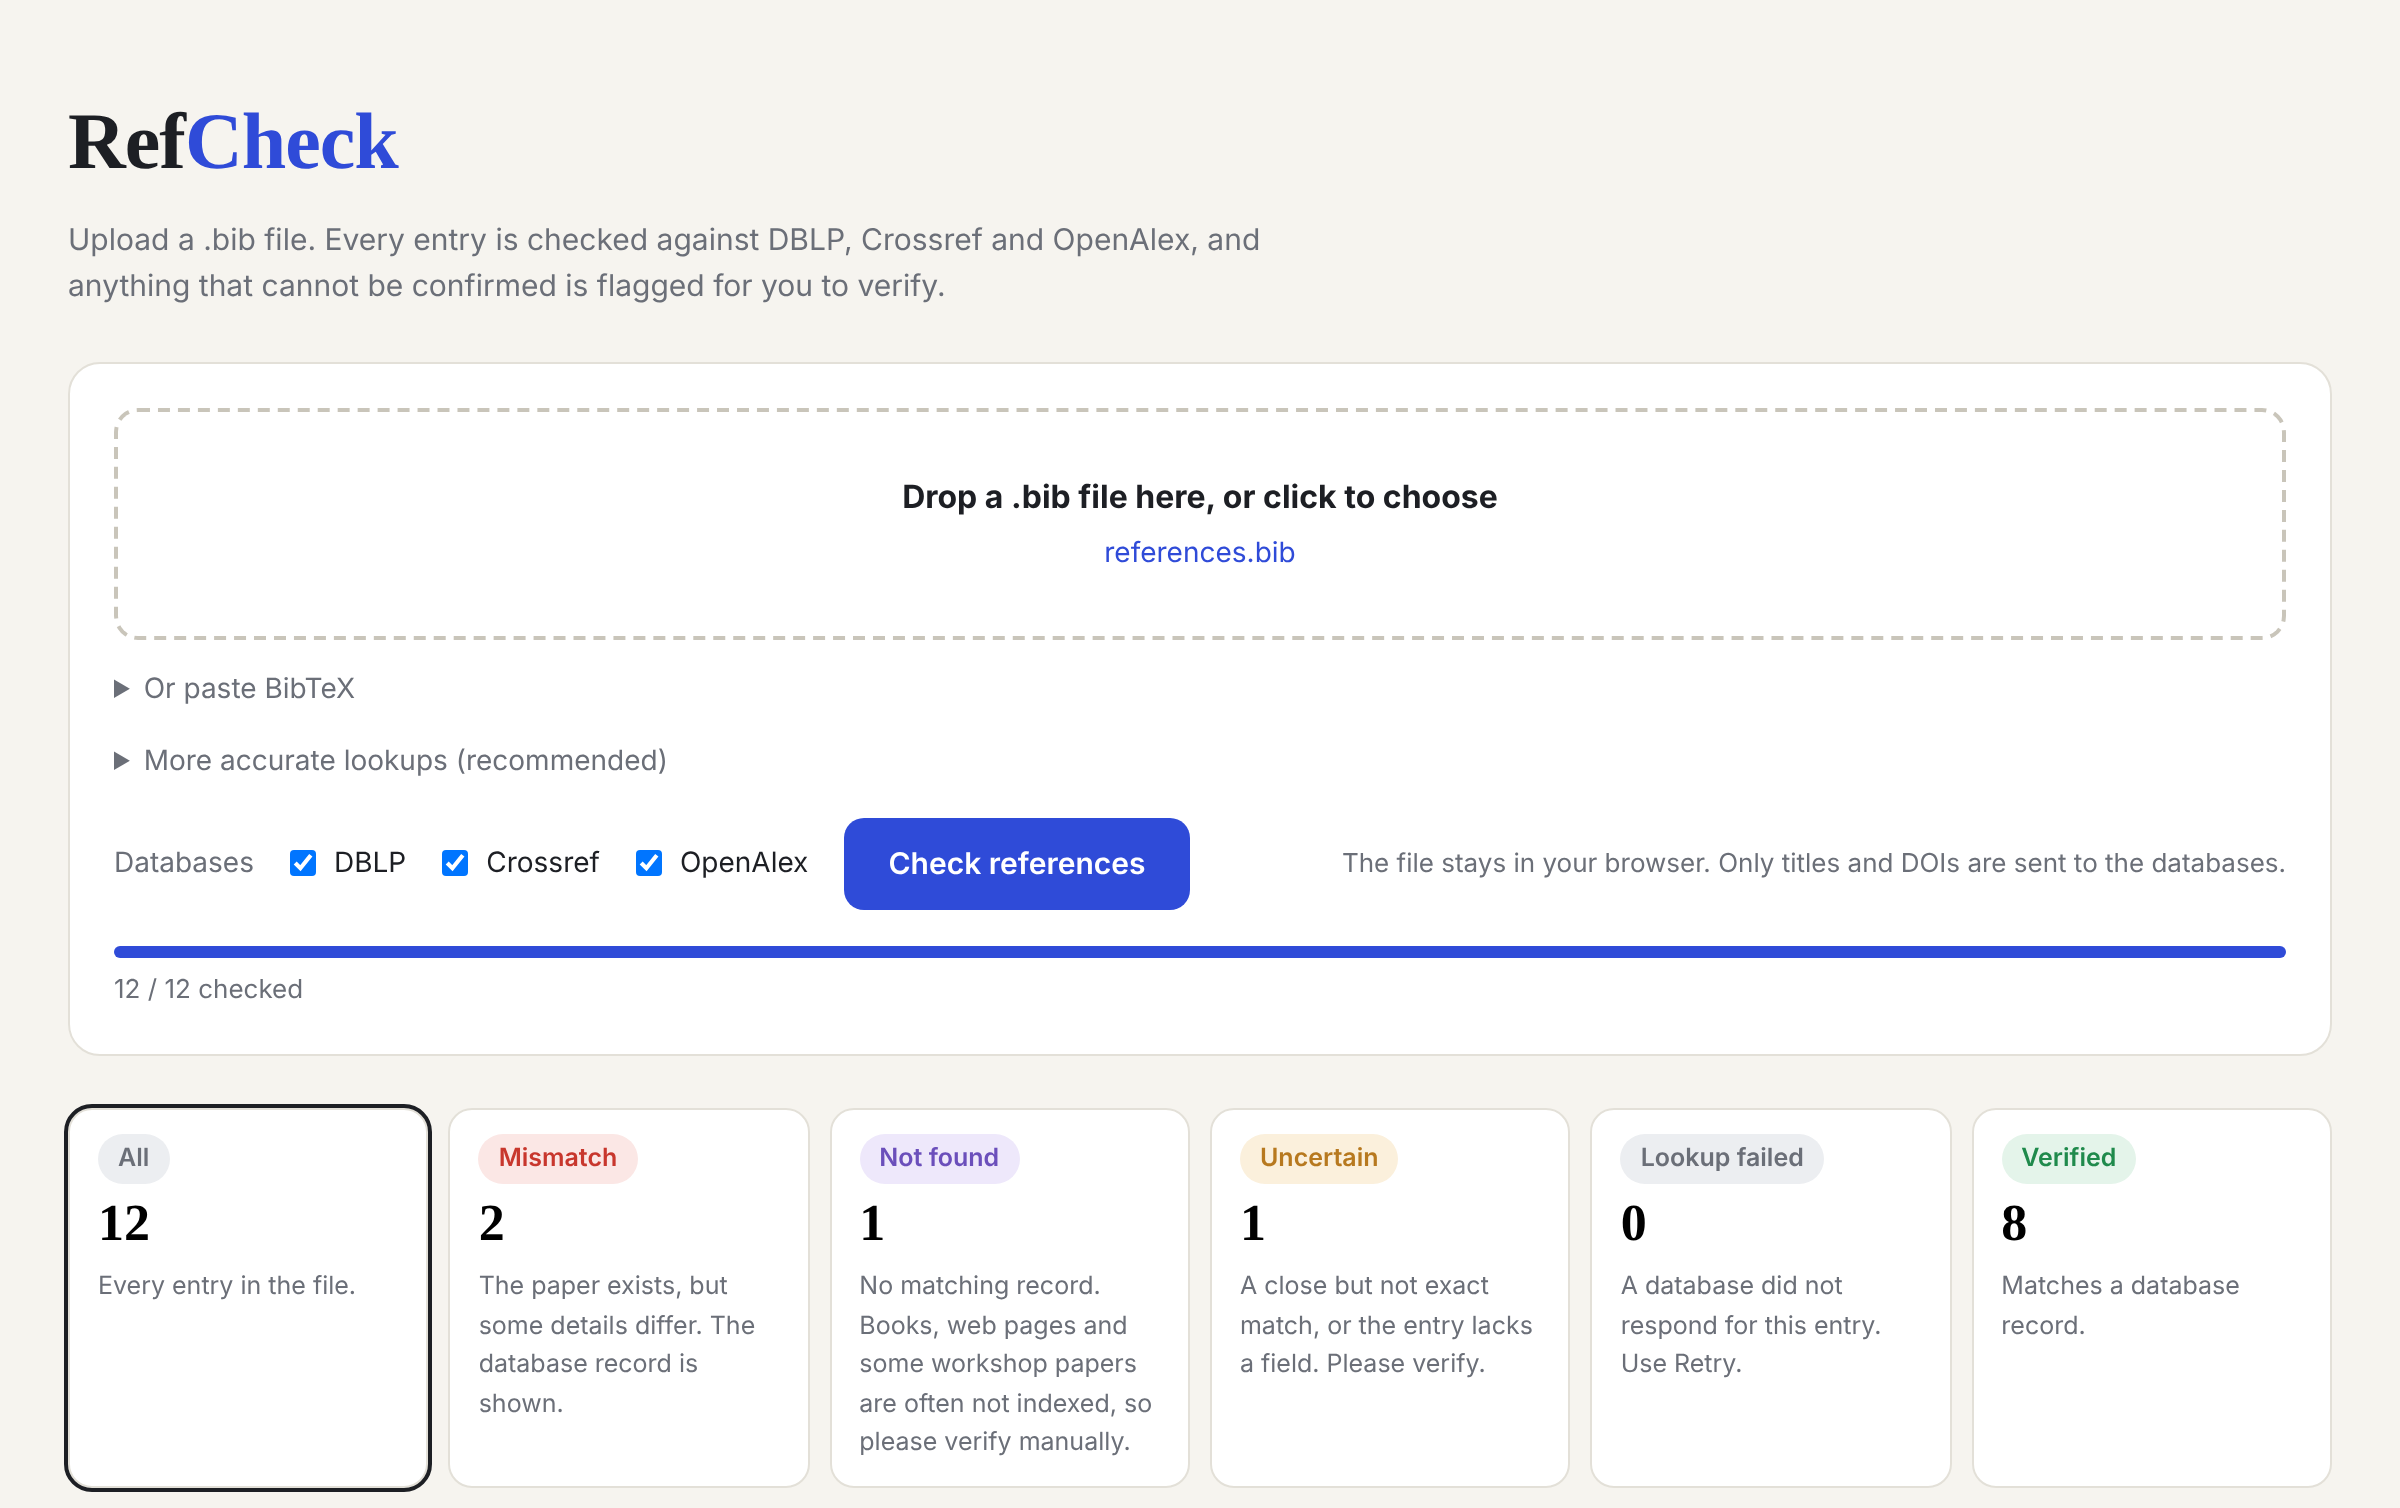
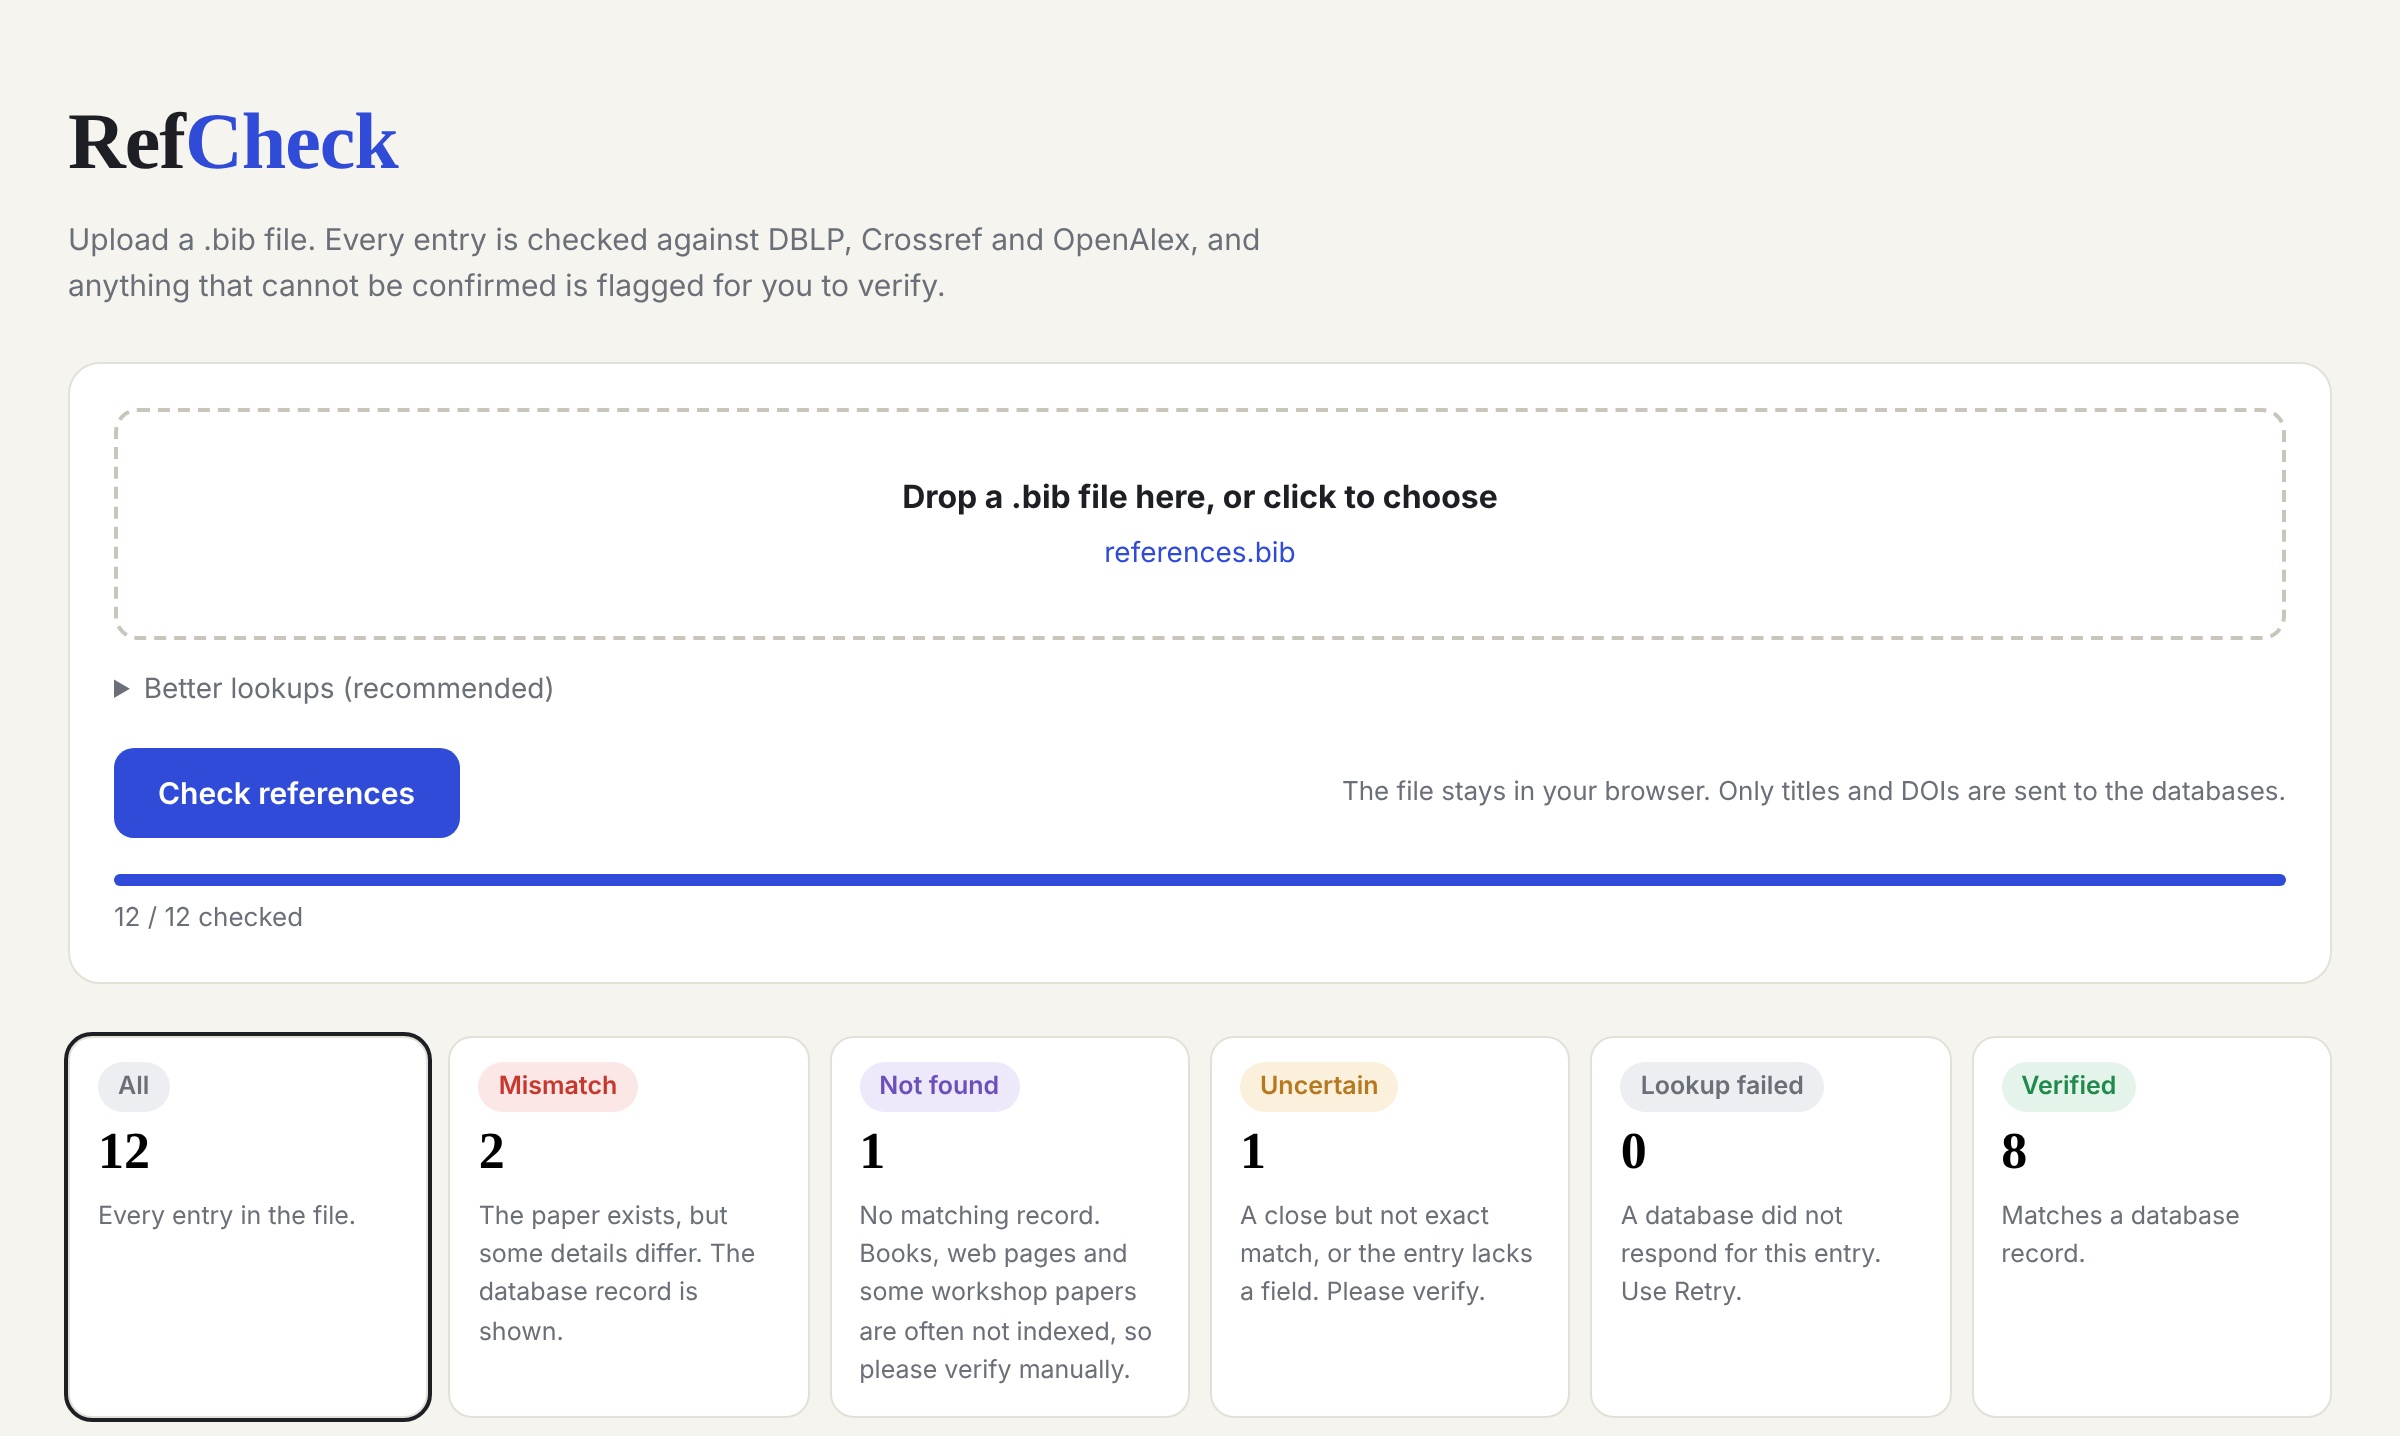
Simplify page

diff --git a/index.html b/index.html
@@ -36,8 +36,6 @@
   .opts input{border:1px solid var(--line);border-radius:8px;padding:9px 10px;font:inherit;font-size:14px;color:var(--ink)}
   @media (max-width:760px){.opts{grid-template-columns:1fr}}
   .row{display:flex;align-items:center;gap:18px;flex-wrap:wrap;margin-top:18px}
-  .sources{display:flex;gap:14px;align-items:center;font-size:14px;color:var(--muted)}
-  .sources label{display:flex;gap:6px;align-items:center;color:var(--ink);cursor:pointer}
   .btn{background:var(--accent);color:#fff;border:0;border-radius:10px;padding:11px 22px;font:inherit;font-weight:600;cursor:pointer}
   .btn:disabled{opacity:.45;cursor:default}
   .btn.ghost{background:transparent;color:var(--accent);border:1px solid var(--accent);padding:8px 16px;font-weight:500}
@@ -95,10 +93,6 @@
       <div class="fname" id="fname"></div>
       <input type="file" id="file" accept=".bib,.bibtex,.txt" hidden>
     </div>
-    <details id="pasteBox">
-      <summary data-i18n="paste"></summary>
-      <textarea id="paste" spellcheck="false" placeholder="@inproceedings{key, title={...}, author={...}, year={...}}"></textarea>
-    </details>
     <details id="optBox">
       <summary data-i18n="options"></summary>
       <div class="opts">
@@ -107,12 +101,6 @@
       </div>
     </details>
     <div class="row">
-      <div class="sources">
-        <span data-i18n="sources"></span>
-        <label><input type="checkbox" value="dblp" checked> DBLP</label>
-        <label><input type="checkbox" value="crossref" checked> Crossref</label>
-        <label><input type="checkbox" value="openalex" checked> OpenAlex</label>
-      </div>
       <button class="btn" id="start" data-i18n="start"></button>
       <span class="privacy" data-i18n="privacy"></span>
     </div>
@@ -557,11 +545,9 @@ if (typeof module !== "undefined") module.exports = RC;
     en: {
       tagline: "Upload a .bib file. Every entry is checked against DBLP, Crossref and OpenAlex, and anything that cannot be confirmed is flagged for you to verify.",
       drop: "Drop a .bib file here, or click to choose",
-      paste: "Or paste BibTeX",
-      options: "More accurate lookups (recommended)",
+      options: "Better lookups (recommended)",
       mailto: "Your email, sent to Crossref for a higher rate limit",
       oakey: "OpenAlex API key, free at openalex.org",
-      sources: "Databases",
       start: "Check references",
       privacy: "The file stays in your browser. Only titles and DOIs are sent to the databases.",
       progress: "{d} / {n} checked",
@@ -614,7 +600,7 @@ if (typeof module !== "undefined") module.exports = RC;
   file.onchange = () => file.files[0] && readFile(file.files[0]);
   function readFile(f) {
     const r = new FileReader();
-    r.onload = () => { fileText = r.result; $("fname").textContent = f.name; $("paste").value = ""; };
+    r.onload = () => { fileText = r.result; $("fname").textContent = f.name; };
     r.readAsText(f);
   }
 
@@ -628,7 +614,7 @@ if (typeof module !== "undefined") module.exports = RC;
     store.set("refcheck-oakey", RC.CONFIG.openalexKey);
   }
   function enabledSources() {
-    return [...document.querySelectorAll(".sources input:checked")].map(i => i.value);
+    return ["dblp", "crossref", "openalex"];
   }
 
   async function runPool(idxs) {
@@ -661,7 +647,7 @@ if (typeof module !== "undefined") module.exports = RC;
   }
 
   $("start").onclick = () => {
-    const text = $("paste").value.trim() || fileText;
+    const text = fileText;
     entries = RC.parseBib(text || "");
     if (!entries.length) { alertBox(t("noEntries")); return; }
     results = entries.map(() => ({ status: "pending", reasons: [], match: null }));
